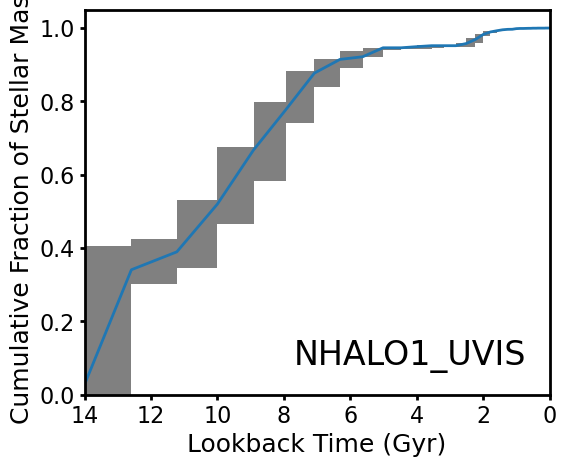
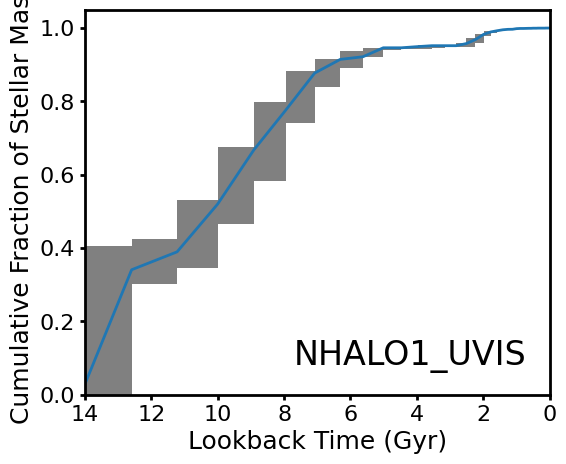
yay

diff --git a/Ben/plot_cum_sfh.py b/Ben/plot_cum_sfh.py
@@ -1,0 +1,62 @@
+import math
+import numpy as np
+import matplotlib.pyplot as plt
+import os.path
+import glob
+import matplotlib.colors as clr
+import matplotlib.cm as cmx
+
+def plot_cum_sfh(inpre,out,lab):
+    plt.rcParams['axes.linewidth'] = '2'
+    fig, ax = plt.subplots( nrows=1, ncols=1 )
+    fig.set_size_inches(6.0,5.0)
+    zcf = inpre
+    sfh = np.genfromtxt (zcf,dtype='double',skip_header=6)
+    age = (10.0**(sfh[:,0]))/1.0e9
+    rows = len(sfh[:,1])-1
+    age = np.append(age,(10.0**(sfh[rows,1]))/1.0e9)
+    frac = np.append(sfh[:,12],[0.0])
+    fracerrl = np.append(sfh[:,14],[0.0])
+    fracerrh = np.append(sfh[:,13],[0.0])
+    doubleage = np.append(age,age)
+    doublesfrlo = np.append(frac-fracerrl,frac-fracerrl)
+    doublesfrhi = np.append(frac+fracerrh,frac+fracerrh)
+    i = np.argsort(doubleage)
+    doubleage = doubleage[i]
+    doublesfrlo = doublesfrlo[i]
+    doublesfrhi = doublesfrhi[i]
+    doubleage=doubleage[1:(len(i)-1)] # trim ends
+    doublesfrlo=doublesfrlo[2:(len(i))] # trim ends
+    doublesfrhi=doublesfrhi[0:(len(i)-2)] # trim ends
+    
+    polyx=np.append(doubleage,doubleage[::-1])
+    polyy=np.append(doublesfrhi,doublesfrlo[::-1])
+    #ax.plot(age,frac,'-',linewidth=2.0,alpha=0.1)
+    ax.plot(age,frac,'-',linewidth=2.0)
+    ax.fill(polyx,polyy,
+                #facecolor='gray',alpha=0.05, edgecolor='none')
+                facecolor='gray', edgecolor='none')
+    plt.ylim([0,1.05])
+    plt.xlim([14,0])
+
+    #plt.rcParams['axes.linewidth'] = '2'
+    #plt.rcParams['xtick.major.pad']='10'
+    plt.yticks(fontsize=16)
+    plt.xticks(fontsize=16)
+    plt.xlabel('Lookback Time (Gyr)',fontsize=18)
+    plt.ylabel('Cumulative Fraction of Stellar Mass',fontsize=18) 
+
+    ax.xaxis.set_tick_params(width=2)
+    ax.yaxis.set_tick_params(width=2)
+    plt.text(0.7, 0.1,lab,
+     horizontalalignment='center',
+     verticalalignment='center',
+             transform = ax.transAxes,fontsize=24)
+    name = out+".png"
+    fig.savefig(name,bbox_inches='tight')
+def main():
+    inzc = "16730_N205-4163ne-2497_gst.zc"
+    out = 'unweighted'
+    lab = 'NHALO1_UVIS'
+    plot_cum_sfh(inzc,out,lab)
+main()

diff --git a/Ben/SFH_plot3.py b/Ben/SFH_plot3.py
@@ -1,0 +1,18 @@
+import matplotlib.pyplot as plt
+import numpy as np
+
+
+data = np.loadtxt("16730_ANDIV-601sw-6792_gst.zc", skiprows = 7)
+
+age_endpt = data[:,0]
+sfh = data[:,3]
+errpos_sfh = data[:,4]
+errpos_sfh[errpos_sfh < 0] = 0
+errneg_sfh = data[:,5]
+errneg_sfh[errneg_sfh < 0] = 0
+
+verterr = np.array([errneg_sfh, errpos_sfh])
+
+plt.figure()
+plt.errorbar(age_endpt, sfh, yerr = verterr, fmt='o', markersize = 2, capsize = 2)
+plt.show()

diff --git a/Ben/SFH_plot2.py b/Ben/SFH_plot2.py
@@ -1,0 +1,18 @@
+import matplotlib.pyplot as plt
+import numpy as np
+
+
+data = np.loadtxt("16730_M31-4985ne-2597_gst.zc", skiprows = 7)
+
+age_endpt = data[:,0]
+sfh = data[:,3]
+errpos_sfh = data[:,4]
+errpos_sfh[errpos_sfh < 0] = 0
+errneg_sfh = data[:,5]
+errneg_sfh[errneg_sfh < 0] = 0
+
+verterr = np.array([errneg_sfh, errpos_sfh])
+
+plt.figure()
+plt.errorbar(age_endpt, sfh, yerr = verterr, fmt='o', markersize = 2, capsize = 2)
+plt.show()
